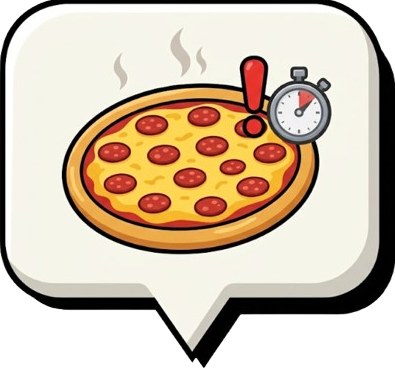
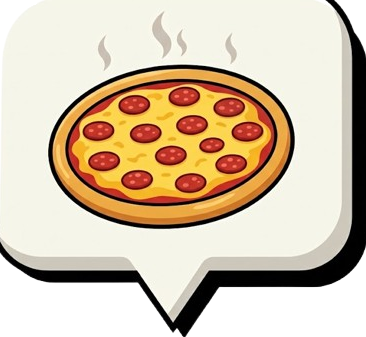
ajout des demandes pizza

diff --git a/main.py b/main.py
@@ -170,11 +170,40 @@ def keyboard():
 # le joueur touche-t-il une maison (ou la pizzeria) ?
 def player_touches_house():
     if player.rect.colliderect(pizzeria.rect):
+        if len(player.inventory) <= 6:
+            player.inventory.append(1)
         return True
     for house in all_houses:
         if player.rect.colliderect(house.rect):
+            # livrer une pizza si la maison en attend une et que le joueur en a
+            if house.delivery_state and len(player.inventory) > 0:
+                player.inventory.pop()
+                house.end_delivery()
             return True
     return False
+
+# --- LIVRAISONS ---
+# toutes les 10 secondes, une maison demande une pizza (3 demandes en même temps au maximum)
+MAX_DELIVERIES = 3
+NEW_DELIVERY_EVERY = 10000 # millisecondes
+last_delivery_time = pygame.time.get_ticks()
+
+def update_deliveries():
+    global last_delivery_time
+    now = pygame.time.get_ticks()
+
+    # les demandes de plus de 20 secondes sont ratées
+    for house in all_houses:
+        if house.delivery_state and house.is_expired(now):
+            house.end_delivery()
+
+    # nouvelle demande toutes les 10 secondes, s'il y a de la place
+    if now - last_delivery_time >= NEW_DELIVERY_EVERY:
+        last_delivery_time = now
+        waiting_houses = [house for house in all_houses if house.delivery_state]
+        free_houses = [house for house in all_houses if not house.delivery_state]
+        if len(waiting_houses) < MAX_DELIVERIES and len(free_houses) > 0:
+            random.choice(free_houses).ask_delivery(now)
 
 # le joueur est-il entièrement dans l'écran ? (contains : toute la hitbox doit être à l'intérieur)
 def player_is_on_screen():
@@ -217,10 +246,17 @@ while running :
 
     screen.blit(player.image, player.rect)
 
+    # demandes de livraison : apparition, expiration et bulles
+    update_deliveries()
+    now = pygame.time.get_ticks()
+    for house in all_houses:
+        house.draw_bubble(screen, now)
+
     #screen.blit(house_test.image, house_test.rect)
     pygame.display.flip()
 
     clock.tick(60)
-print(all_zones)
-print(matrix)
+print(f"inventaire joueur :{player.inventory}")
+print(f"toutes les zones {all_zones}")
+print(f"matrice {matrix}")
 pygame.quit()

diff --git a/models/house.py b/models/house.py
@@ -1,12 +1,55 @@
 from models.parcel import Parcel
+from utils import load_image, get_parcels_size
 import random
+
+# durée max d'une demande de livraison, et moment où elle devient urgente (en millisecondes)
+DELIVERY_DURATION = 20000
+URGENT_AFTER = 10000
+
+# images des bulles, chargées une seule fois pour toutes les maisons
+bubble_images = {}
+
+def get_bubble_image(urgent):
+    if not bubble_images:
+        parcel_width, parcel_height = get_parcels_size()
+        # la bulle fait la moitié d'une parcelle
+        bubble_images[False] = load_image("assets/bubbles/bubble.png", parcel_width // 2, parcel_height // 2)
+        bubble_images[True] = load_image("assets/bubbles/bubble_u.png", parcel_width // 2, parcel_height // 2)
+    return bubble_images[urgent]
 
 class House(Parcel):
 
     def __init__(self, id, image, location_x, location_y):
-        
+
         super().__init__(id, image, location_x, location_y)
 
         self.spawn = random.choices([True, False], weights=[80,20])[0]
         self.delivery_state = False
+        # moment (pygame.time.get_ticks) où la demande a commencé
+        self.delivery_start = 0
 
+    # la maison demande une pizza
+    def ask_delivery(self, now):
+        self.delivery_state = True
+        self.delivery_start = now
+
+    # la pizza a été livrée (ou la demande a expiré)
+    def end_delivery(self):
+        self.delivery_state = False
+
+    # plus que 10 secondes pour livrer ?
+    def is_urgent(self, now):
+        return now - self.delivery_start >= URGENT_AFTER
+
+    # les 20 secondes sont-elles écoulées ?
+    def is_expired(self, now):
+        return now - self.delivery_start >= DELIVERY_DURATION
+
+    # afficher la bulle au-dessus de la maison si elle attend une livraison
+    def draw_bubble(self, screen, now):
+        if not self.delivery_state:
+            return
+        bubble = get_bubble_image(self.is_urgent(now))
+        # bulle centrée en haut de la maison
+        bubble_rect = bubble.get_rect(centerx=self.rect.centerx, bottom=self.rect.centery)
+        screen.blit(bubble, bubble_rect)

diff --git a/utils.py b/utils.py
@@ -299,5 +299,4 @@ def choose_pizzeria(matrix):
                 matrix[y+1][x] = 0
                 connect_all_zones(matrix)
                 return x, y
-
         return random.choice(candidates)
